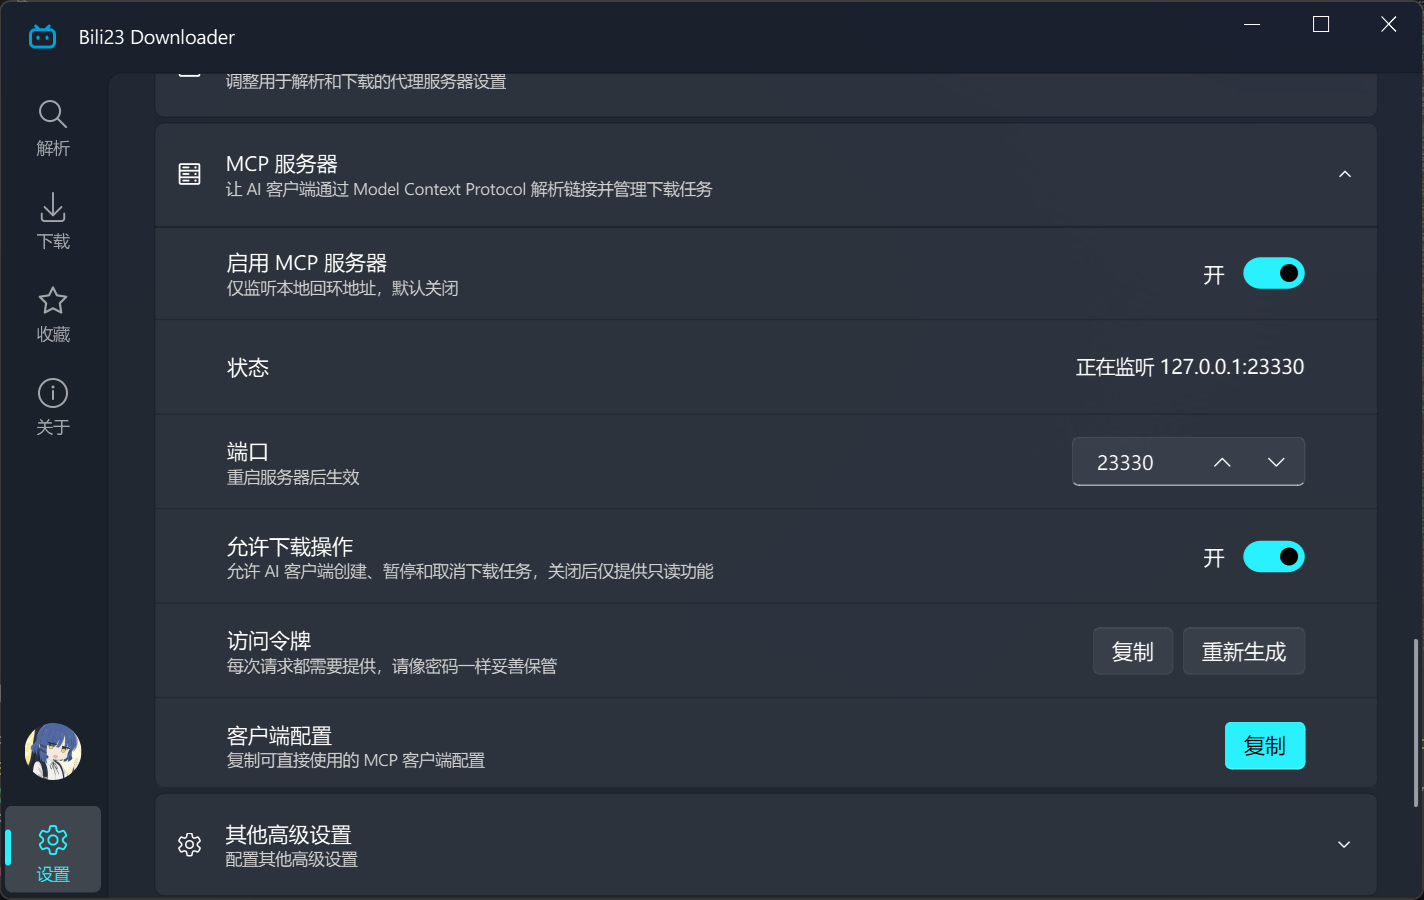
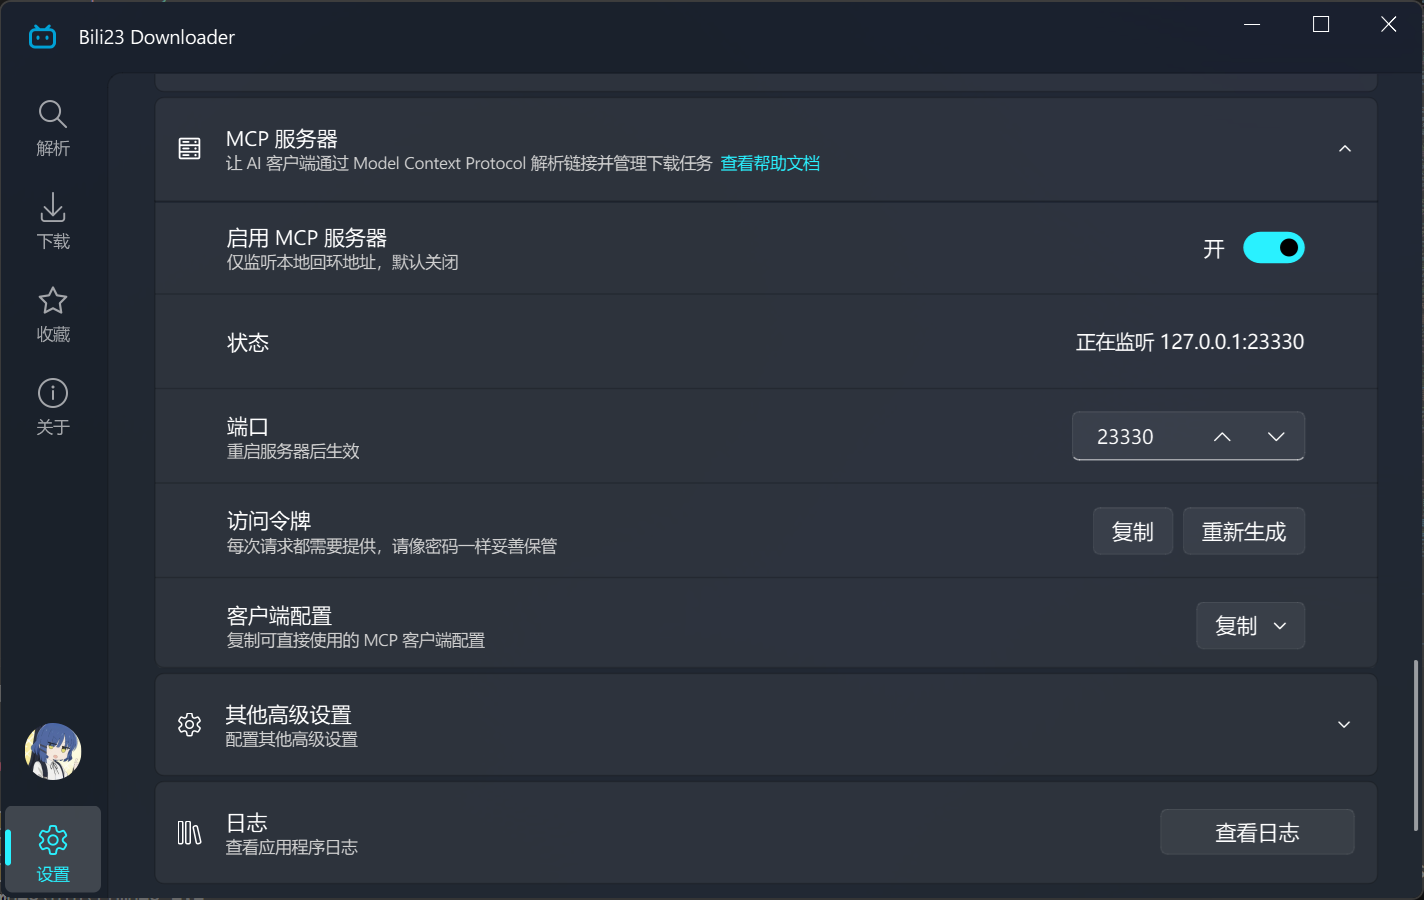
docs: 配合 v2.15.0 发布更新文档

diff --git a/project.data.js b/project.data.js
@@ -11,7 +11,6 @@ export default {
         linux_amd64_tar_gz_key: 'iF7Qv42d6cxg',
         linux_arm64_deb_key: 'iI6e342d6rzi',
         linux_arm64_tar_gz_key: 'iRcFf42d77la',
-        // rpm 与 AppImage 尚未发布，填入蓝奏云 key 后页面会自动显示下载链接
         linux_amd64_rpm_key: '',
         linux_amd64_appimage_key: '',
         linux_arm64_rpm_key: '',

diff --git a/doc/releases.md b/doc/releases.md
@@ -103,8 +103,8 @@ let macos_x86_64_url_lanzou = formatLanzouURL(data.lanzou.macos_x86_64_key)
 | 系统 | 文件类型 | 说明 | 下载链接 |
 | :--- | :--- | :--- | :--- |
 | Ubuntu / Debian | deb 安装包 | 原生安装程序 | <a :href="linux_amd64_deb_url" target="_blank">Github</a> <br> <a :href="linux_amd64_deb_url_lanzou" target="_blank">蓝奏云</a> |
-| Fedora / RHEL / openSUSE | rpm 安装包 | 原生安装程序 | <span v-if="data.lanzou.linux_amd64_rpm_key"><a :href="linux_amd64_rpm_url" target="_blank">Github</a> <br> <a :href="linux_amd64_rpm_url_lanzou" target="_blank">蓝奏云</a></span><span v-else>即将推出</span> |
-| Linux 通用 | AppImage | 免安装，添加可执行权限后直接运行 | <span v-if="data.lanzou.linux_amd64_appimage_key"><a :href="linux_amd64_appimage_url" target="_blank">Github</a> <br> <a :href="linux_amd64_appimage_url_lanzou" target="_blank">蓝奏云</a></span><span v-else>即将推出</span> |
+| Fedora / RHEL / openSUSE | rpm 安装包 | 原生安装程序 | <a :href="linux_amd64_rpm_url" target="_blank">Github</a> <br> <a :href="linux_amd64_rpm_url_lanzou" target="_blank">蓝奏云</a> |
+| Linux 通用 | AppImage | 免安装，添加可执行权限后直接运行 | <a :href="linux_amd64_appimage_url" target="_blank">Github</a> <br> <a :href="linux_amd64_appimage_url_lanzou" target="_blank">蓝奏云</a> |
 | Linux 通用 | tar.gz 便携版 | 解压即用 | <a :href="linux_amd64_tar_gz_url" target="_blank">Github</a> <br> <a :href="linux_amd64_tar_gz_url_lanzou" target="_blank">蓝奏云</a> |
 
 ### ARM64 架构
@@ -114,8 +114,8 @@ let macos_x86_64_url_lanzou = formatLanzouURL(data.lanzou.macos_x86_64_key)
 | 系统 | 文件类型 | 说明 | 下载链接 |
 | :--- | :--- | :--- | :--- |
 | Ubuntu / Debian | deb 安装包 | 原生安装程序 | <a :href="linux_arm64_deb_url" target="_blank">Github</a> <br> <a :href="linux_arm64_deb_url_lanzou" target="_blank">蓝奏云</a> |
-| Fedora / RHEL / openSUSE | rpm 安装包 | 原生安装程序 | <span v-if="data.lanzou.linux_arm64_rpm_key"><a :href="linux_arm64_rpm_url" target="_blank">Github</a> <br> <a :href="linux_arm64_rpm_url_lanzou" target="_blank">蓝奏云</a></span><span v-else>即将推出</span> |
-| Linux 通用 | AppImage | 免安装，添加可执行权限后直接运行 | <span v-if="data.lanzou.linux_arm64_appimage_key"><a :href="linux_arm64_appimage_url" target="_blank">Github</a> <br> <a :href="linux_arm64_appimage_url_lanzou" target="_blank">蓝奏云</a></span><span v-else>即将推出</span> |
+| Fedora / RHEL / openSUSE | rpm 安装包 | 原生安装程序 | <a :href="linux_arm64_rpm_url" target="_blank">Github</a> <br> <a :href="linux_arm64_rpm_url_lanzou" target="_blank">蓝奏云</a> |
+| Linux 通用 | AppImage | 免安装，添加可执行权限后直接运行 | <a :href="linux_arm64_appimage_url" target="_blank">Github</a> <br> <a :href="linux_arm64_appimage_url_lanzou" target="_blank">蓝奏云</a> |
 | Linux 通用 | tar.gz 便携版 | 解压即用 | <a :href="linux_arm64_tar_gz_url" target="_blank">Github</a> <br> <a :href="linux_arm64_tar_gz_url_lanzou" target="_blank">蓝奏云</a> |
 
 ### 运行 AppImage

diff --git a/doc/advanced/mcp-server.md b/doc/advanced/mcp-server.md
@@ -1,9 +1,5 @@
 # MCP 服务器
 
-::: warning 🚧 该功能尚未上线
-MCP 服务器将在下一个版本（**2.15.0**）中提供，当前已发布的版本尚不支持。本页内容依据开发中的版本编写，实际行为请以发布后的版本为准。
-:::
-
 程序内置了一个 MCP（Model Context Protocol）服务器。开启后，支持该协议的 AI 客户端（如 Claude Code、Claude Desktop、OpenAI Codex、Cherry Studio 等）就能直接操作下载器：解析链接、创建下载任务、查询进度、暂停或取消任务。
 
 配置完成后，你可以直接对 AI 说「把这个链接里的视频都下载下来」，解析与建立任务的过程由它自行完成。
